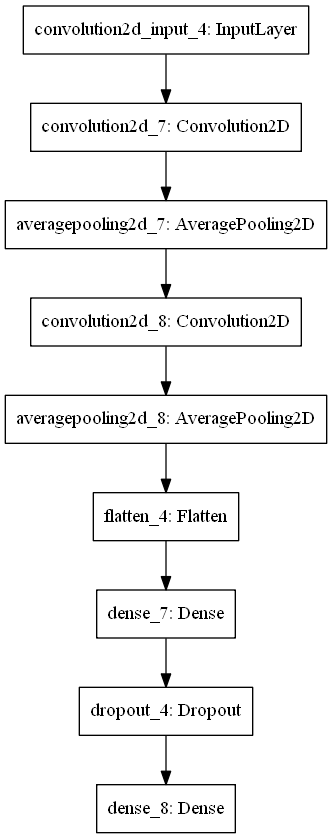
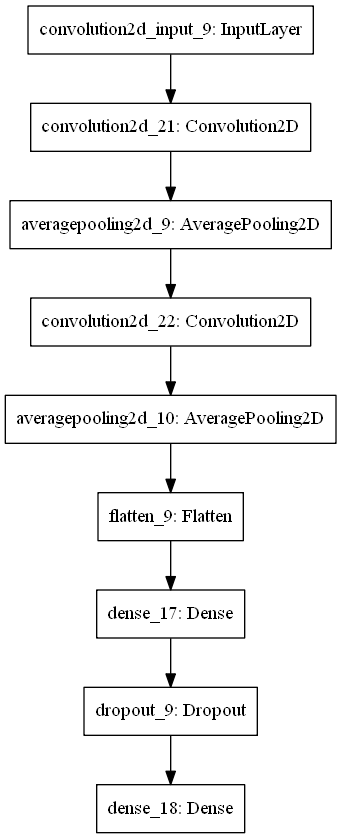
change to 1-chanel output (sigmoid)

diff --git a/classifier/cnn_kera_py35.py b/classifier/cnn_kera_py35.py
@@ -23,8 +23,8 @@ def basicModel():
     our_model.add(Flatten())
     our_model.add(Dense(30, activation='relu'))
     our_model.add(Dropout(0.3))
-    our_model.add(Dense(2, activation='softmax'))
-    our_model.compile(loss='categorical_crossentropy',
+    our_model.add(Dense(1, activation='sigmoid'))
+    our_model.compile(loss='binary_crossentropy',
                       optimizer='adam', metrics=['accuracy'])
     plot(our_model, to_file='basic_model.png')
     return our_model
@@ -46,8 +46,8 @@ def CnnModel():
     # our_model.add(Dropout(0.25))
     our_model.add(Dense(16, activation='relu'))
     our_model.add(Dropout(0.4))
-    our_model.add(Dense(2, activation='softmax'))
-    our_model.compile(loss='categorical_crossentropy',
+    our_model.add(Dense(1, activation='sigmoid'))
+    our_model.compile(loss='binary_crossentropy',
                       optimizer='adam', metrics=['accuracy'])
     plot(our_model, to_file='cnn_model.png')
     return our_model
@@ -71,8 +71,8 @@ def ResModel(n_channels=3):
     our_model.add(Flatten())
     our_model.add(Dense(16, activation='relu'))
     our_model.add(Dropout(0.4))
-    our_model.add(Dense(2, activation='softmax'))
-    our_model.compile(loss='categorical_crossentropy',
+    our_model.add(Dense(1, activation='sigmoid'))
+    our_model.compile(loss='binary_crossentropy',
                       optimizer='adam', metrics=['accuracy'])
     plot(our_model, to_file='res_model.png')
     return our_model
@@ -86,10 +86,10 @@ def construct_X_Y_day_level(evaluation_data):
         dat = evaluation_data[each]
         for d in dat['feature']:  # one car may have several days' data
             X_data.append(np.array(d).flatten())
-            Y_data.append(np.array(dat['label']).flatten())
+            Y_data.append(np.argmax(np.array(dat['label'])))
             cnt += 1
     X_data = np.array(X_data).reshape(cnt, 24, 24, 1)
-    Y_data = np.array(Y_data).reshape(cnt, 2)
+    Y_data = np.array(Y_data).reshape(cnt, 1)
     return X_data, Y_data
 
 
@@ -112,10 +112,10 @@ def construct_X_Y_car_level(evaluation_data):
         for i in range(len_feature):
             d = dat['feature'][i]
             X_data.append(np.array(d).flatten())
-        Y_data.append(np.array(dat['label']).flatten())
+        Y_data.append(np.argmax(np.array(dat['label'])))
         cnt += 1
     X_data = np.array(X_data).reshape(cnt, 24, 24, 8)
-    Y_data = np.array(Y_data).reshape(cnt, 2)
+    Y_data = np.array(Y_data).reshape(cnt, 1)
     return X_data, Y_data
 
 
@@ -134,14 +134,17 @@ def test_day_level(test_data, model):
         if len(all_traces) == 0:
             continue
         test_num += 1
-        Y_true = test_data[car_id]['label']
+        Y_true = np.argmax(np.array(test_data[car_id]['label']))
         X = []
         for each_day_trace in all_traces:
             X.append(np.array(each_day_trace).flatten())
         X = np.array(X).reshape(len(all_traces), 24, 24, 1)
         Y_predictions = model.predict(X)
+        # fine-tuning the prediction probability for one car
         Y_pred_probs = np.mean(Y_predictions, axis=0)
-        if np.argmax(Y_pred_probs) == np.argmax(Y_true):
+        # (np.mean(Y_predictions, axis=0) + np.max(Y_predictions, axis=0)) / 2.0
+        Y_pred_label = 1 if Y_pred_probs > 0.5 else 0
+        if Y_pred_label == Y_true:
             test_hit += 1
     acc = test_hit * 1.0 / test_num
     print(acc)
@@ -156,11 +159,12 @@ def test_ensemble_model(test_data, day_model, car_model):
         if len(all_traces) == 0:
             continue
         test_num += 1
-        Y_true = test_data[car_id]['label']
+        Y_true = np.argmax(np.array(test_data[car_id]['label']))
         test_data_car = {}
         test_data_car[car_id] = test_data[car_id]
         Y_pred_probs = predict_one_car_ensemble(test_data_car, day_model, car_model)
-        if np.argmax(Y_pred_probs) == np.argmax(Y_true):
+        Y_pred_label = 1 if Y_pred_probs > 0.5 else 0
+        if Y_pred_label == Y_true:
             test_hit += 1
     acc = test_hit * 1.0 / test_num
     print(acc)
@@ -173,11 +177,13 @@ def predict_one_car_ensemble(car_data, day_model, car_model):
     """
     X_day, Y_day = construct_X_Y_day_level(car_data)
     Y_predictions = day_model.predict(X_day)
-    Y_pred_day = np.mean(Y_predictions, axis=0)
+    Y_pred_day = (np.max(Y_predictions, axis=0) + np.mean(Y_predictions, axis=0)) / 2.0
+    # (np.max(Y_predictions, axis=0) + np.mean(Y_predictions, axis=0)) / 2.0
+    # np.mean(Y_predictions, axis=0)
 
     X_car, Y_car = construct_X_Y_car_level(car_data)
     Y_predictions = car_model.predict(X_car)
-    Y_pred_car = np.mean(Y_predictions, axis=0)
+    Y_pred_car = np.max(Y_predictions, axis=0)
 
     Y_pred_ensemble = (Y_pred_car + Y_pred_day) / 2.0
     return Y_pred_ensemble
@@ -206,10 +212,10 @@ if __name__ == "__main__":
 
     ensemble = True  # use both car_level and day_level model?
     car_level = False  # car_level or day_level, only valid when ensemble is False
-    num_epoch = 20
+    num_epoch = 10
     num_batch = 4
 
-    used_model = CnnModel  # choose from ResModel, CnnModel, basicModel
+    # used_model = basicModel  # choose from ResModel, CnnModel, basicModel
 
     is_data_augmentation = False  # use data augementation?
     times_of_augmentation = 3  # how many times more training pictures generated compared to original data
@@ -226,7 +232,7 @@ if __name__ == "__main__":
         if ensemble or car_level:
             INPUT_SHAPE = (24, 24, 8)
             X_train, Y_train = construct_X_Y_car_level(train_data)
-            car_model = used_model()
+            car_model = basicModel()
             car_model = train(X_train, Y_train, car_model, num_batch, num_epoch,
                               is_data_augmentation, times_of_augmentation)
             eval_measures[cnt, 1] = test_car_level(test_data, car_model)
@@ -235,7 +241,7 @@ if __name__ == "__main__":
         if ensemble or (not car_level):
             INPUT_SHAPE = (24, 24, 1)
             X_train, Y_train = construct_X_Y_day_level(train_data)
-            day_model = used_model()
+            day_model = CnnModel()
             day_model = train(X_train, Y_train, day_model, num_batch, num_epoch,
                               is_data_augmentation, times_of_augmentation)
             eval_measures[cnt, 2] = test_day_level(test_data, day_model)
